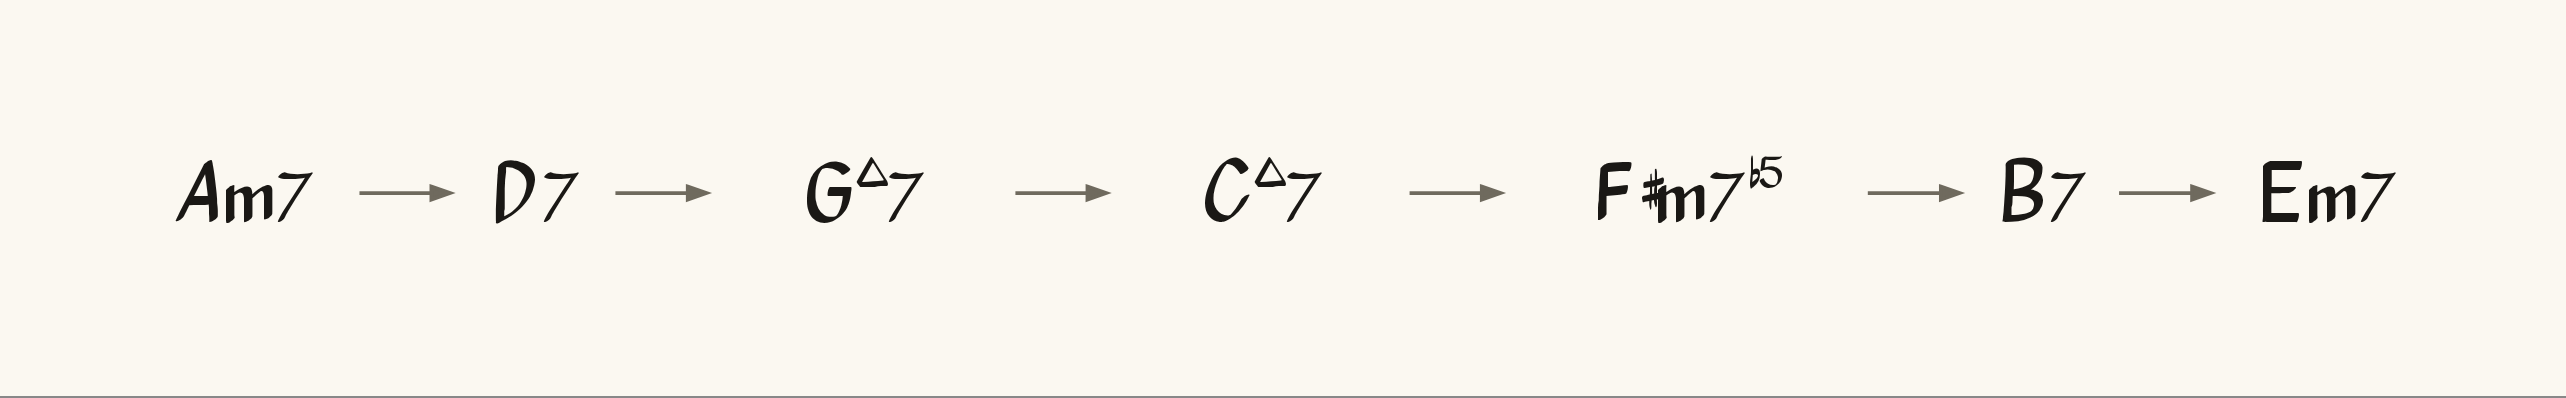
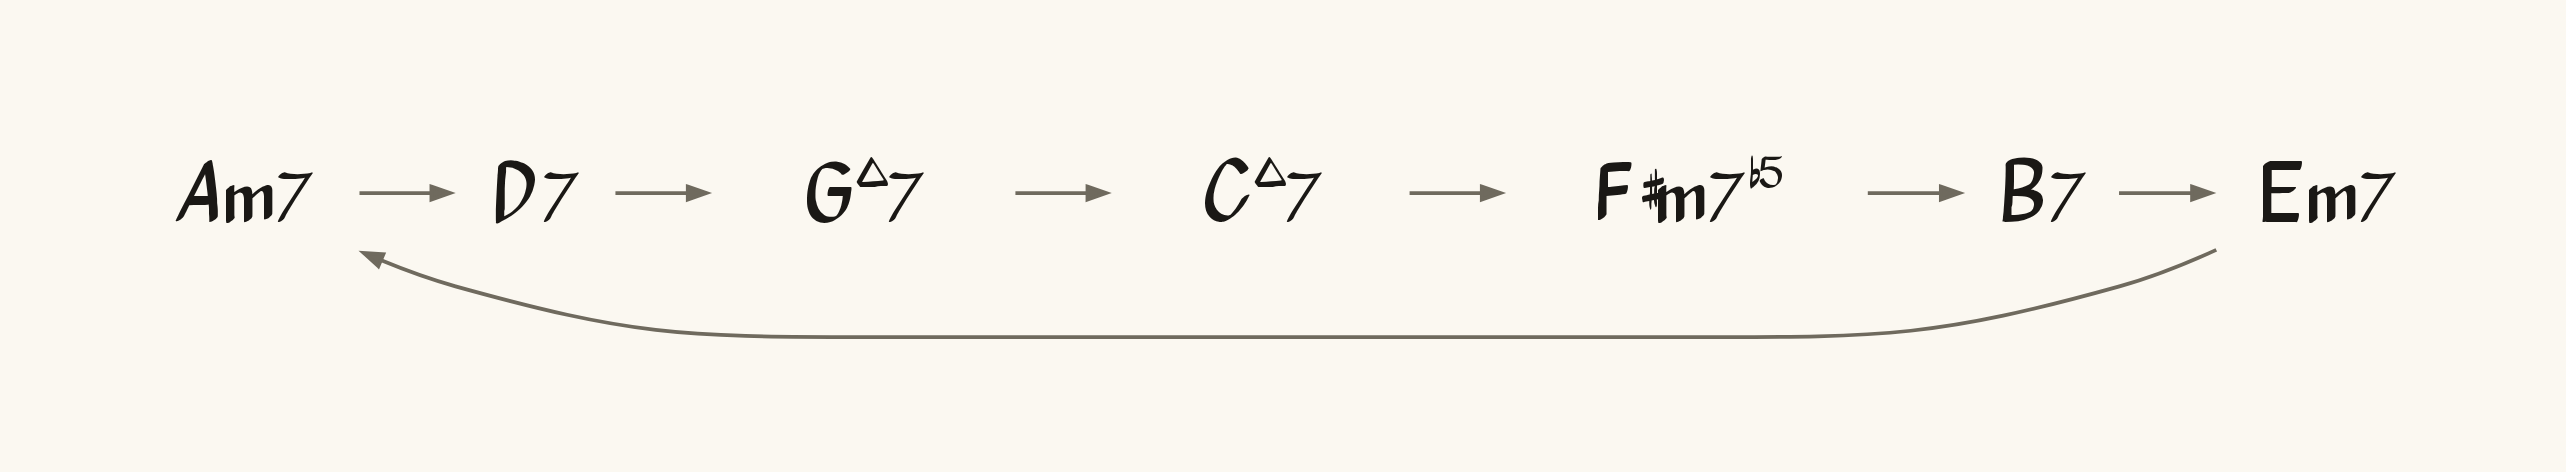
Add branch to ii-V-I chain graph example
The graph example now includes a turnaround from Em7 back to Am7, demonstrating branching in harmonic progressions. Updated both the source .cfgv file and regenerated preview images.

diff --git a/README.md b/README.md
@@ -114,6 +114,7 @@ digraph {
   edge [color="#6f6a5e" penwidth=1.4 arrowsize=0.7];
 
   Am7 -> D7 -> Gmaj7 -> Cmaj7 -> "F#m7b5" -> B7 -> Em7;
+  Em7 -> Am7 [constraint=false];
 }
 ```
 
